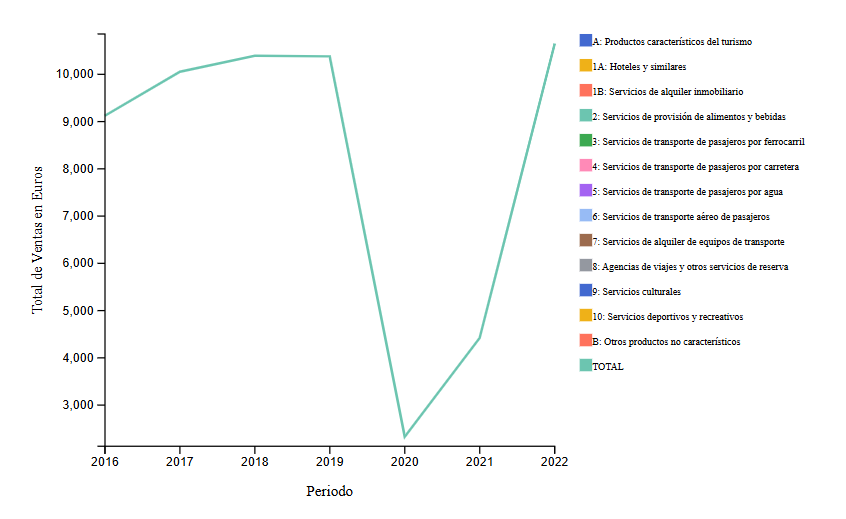
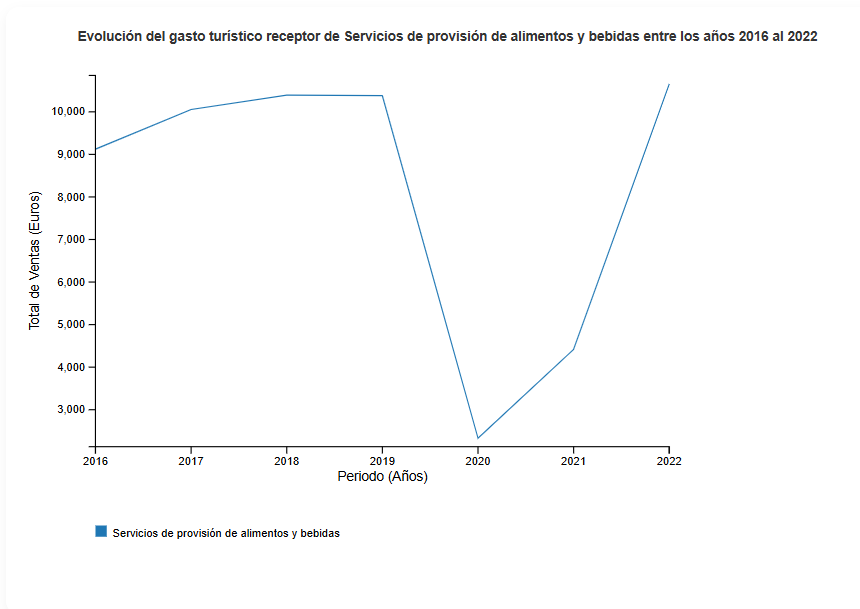
se ajusta readme, fotos y archivo script.js agregando títulos de ejes para las gráficas

diff --git a/source/js/script.js b/source/js/script.js
@@ -328,10 +328,27 @@ function creaGraficoBarrasProducto(datos) {
     svg.append("g")
       .call(d3.axisLeft(escalaY))
       .style("font-size", "12px");
+    
+      // Título del eje X
+    svg.append("text")
+    .attr("x", ancho / 2) // Centrado horizontalmente
+    .attr("y", alto + 30) // Posicionado debajo del eje X
+    .attr("text-anchor", "middle") // Centrado el texto
+    .style("font-size", "12px")
+    .text("Productos");
+
+    // Título del eje Y
+    svg.append("text")
+    .attr("x", -(alto / 2)) // Centrado verticalmente (rotado)
+    .attr("y", -margin.left + 10) // Posicionado a la izquierda del eje Y
+    .attr("transform", "rotate(-90)") // Rotación para el eje Y
+    .attr("text-anchor", "middle") // Centrado el texto
+    .style("font-size", "12px")
+    .text("Total de Ventas (Euros)");
 
     // Leyenda debajo del gráfico
     const leyenda = svg.append("g")
-        .attr("transform", `translate(0, ${alto + 20})`);  // Aseguramos que la leyenda esté debajo
+        .attr("transform", `translate(0, ${alto + 40})`);  // Aseguramos que la leyenda esté debajo
 
     const columnas = 2;  // Número de columnas
     const itemWidth = 280;  // Ancho de cada ítem de leyenda

diff --git a/README.md b/README.md
@@ -16,3 +16,12 @@ Se agregaron filtros para que el usuario pueda analizar la información con mayo
 
 4. El producto **Servicios de provisión de alimentos y bebidas** fue el que generó mayor número de ventas en el período analizado. Haciendo un enfasis en la revisión de la tendencia con la gráfica: ![Servicios de provisión de alimentos y bebidas](/source/photo/servicio_provi_aliment_bebidas.png)
 Gracias a las estratégias de marketing derivadas, a pesar de la caida en el 2020, el equipo logró recuperar las ventas con los clientes tanto en 2021 cómo en 2022 siendo este último año el de mayor crecimiento, sobrepasando las ventas que se tenían en 2019 pre pandemía. 
+
+5. El producto con menos ventas fue el de **servicio de transporte de pasajeros por agua** que aunque tenía unas ventas no mayores a 500 Euros pre pandemía, se redujo significativamente cerca de un 71% en el año 2020 por la emergencia de salud, llegando a un valor de ventas de 79 Euros. Gracias al levantamiento de las medidas sanitarias de restricción de confinamiento de las personas en casa y la estratégia de la compañia, durante los años 2021 y 2022, se lograron ventas por encima de los años pre pandemía logrando un aumento para 2022 de 463 Euros, cercano al 64% comparado con las ventas del año 2019. ![Servicios de transporte de pasajeros por agua](/source/photo/servicio_transporte_pasa_agua.png)
+
+***NOTA:*** El gráfico de líneas se muestra cuando en el período el filtro está en **"Todos"**.
+
+Finalmente, se agrega un gráfico de barras que permite ver el valor total de ventas de todos los productos por 1 año o periodo en específico. Para ver este gráfico se debe seleccional en el filtro de periodo, un valor diferente a **Todos**. 
+![Gráfico de barras por producto - año 2019 pre pandemia](/source/photo/diagrama_barras_year.png)
+
+Este informe se presenta complemento a los análisis detallados por la compañía según el usuario consultante.
